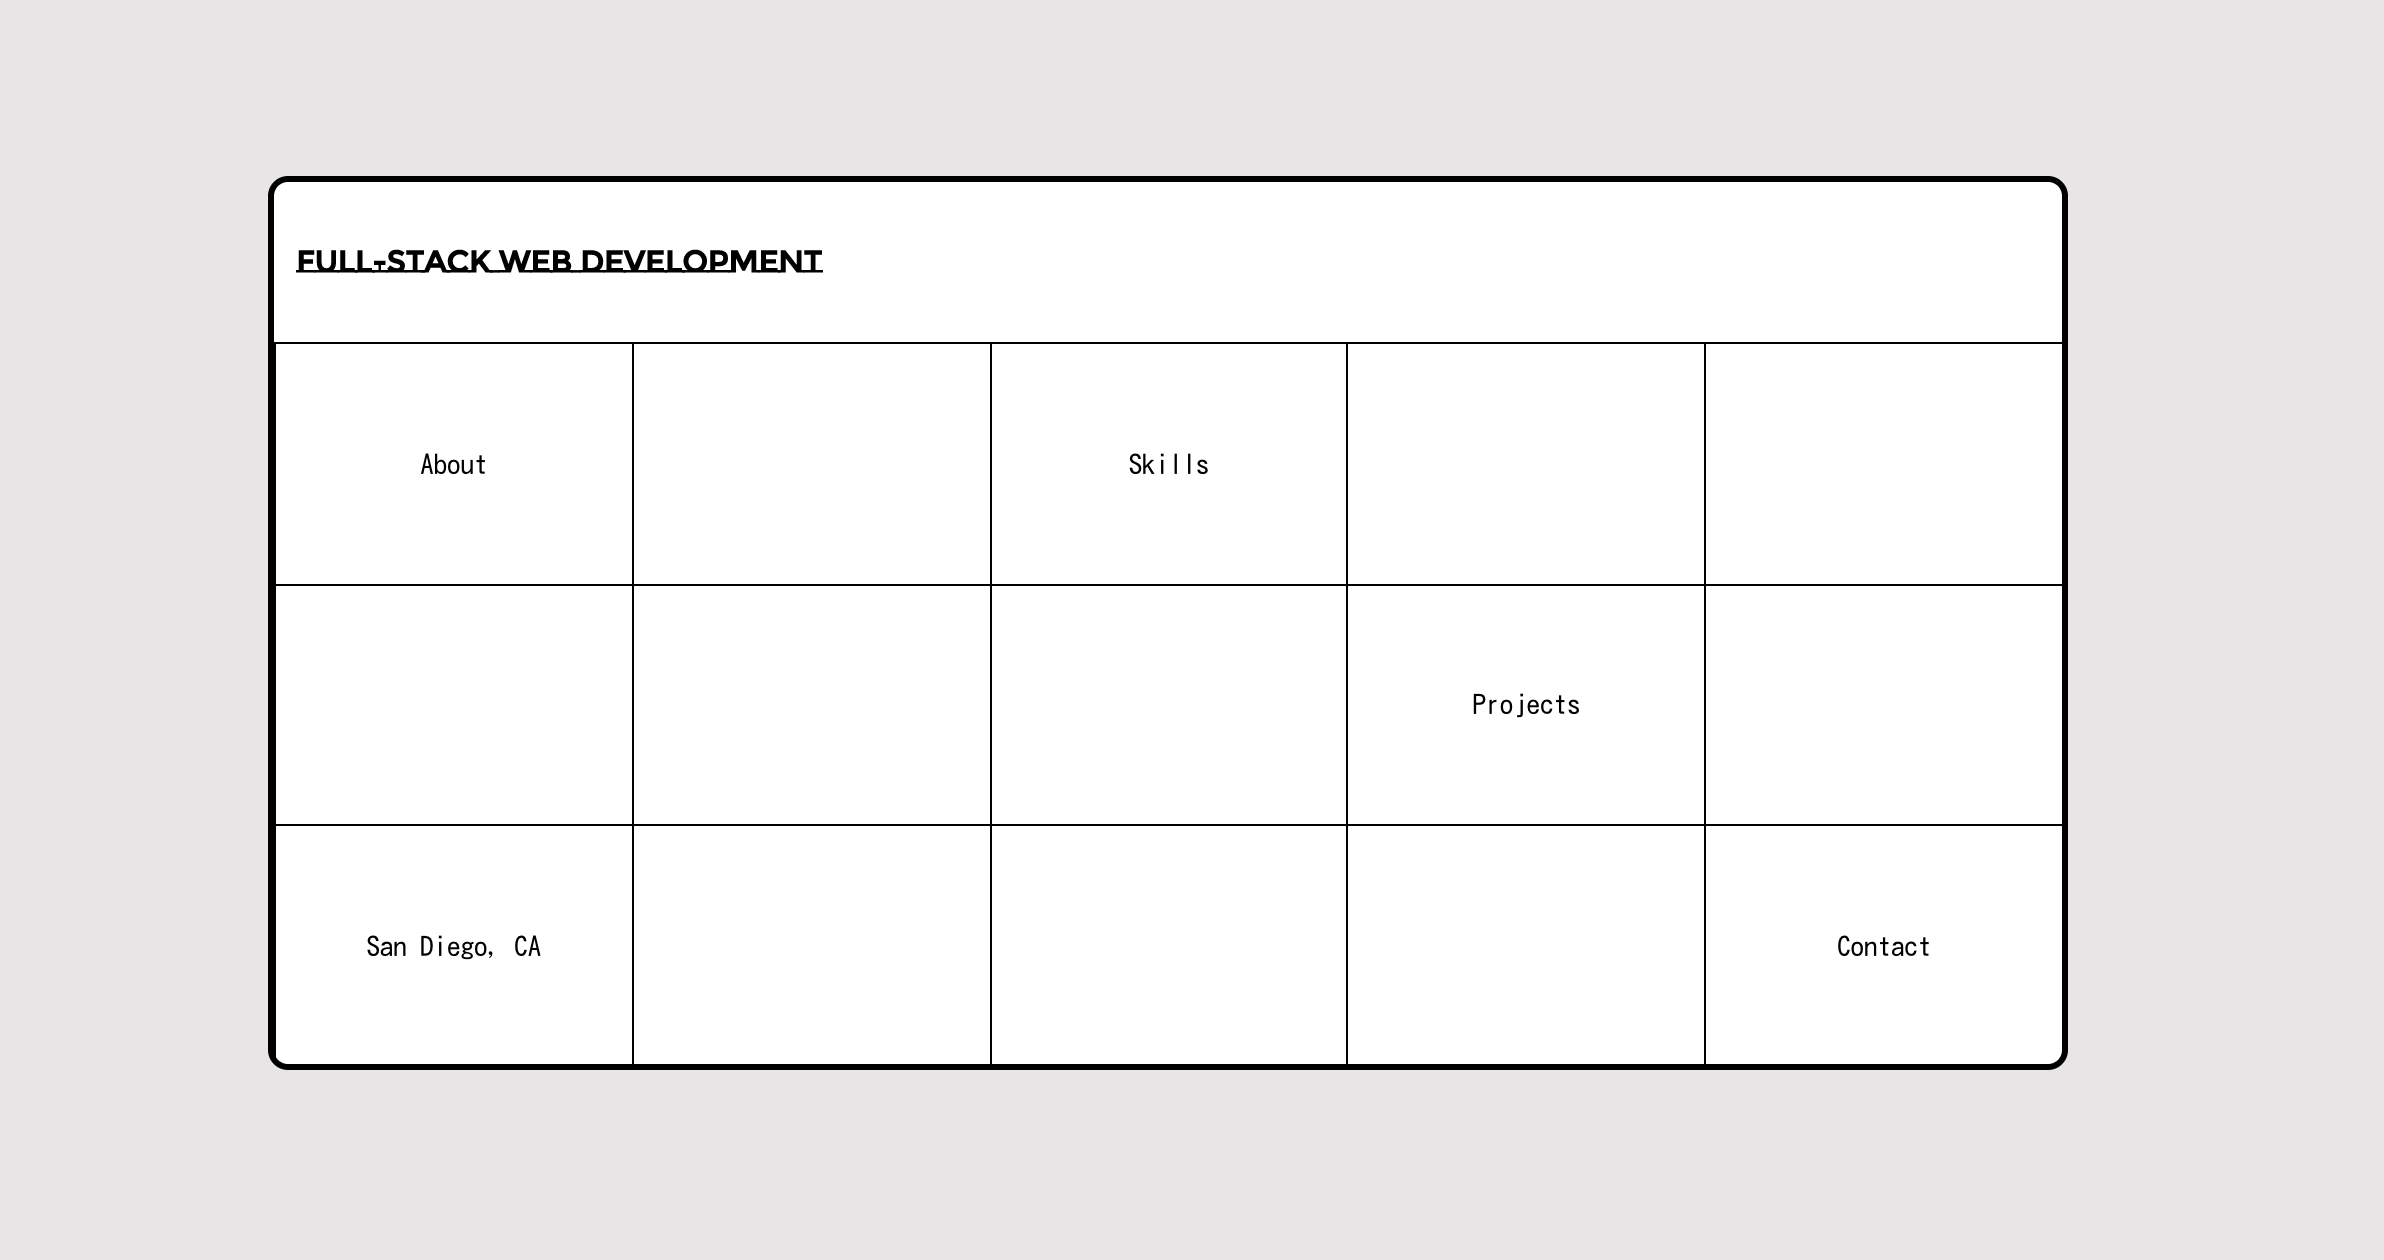
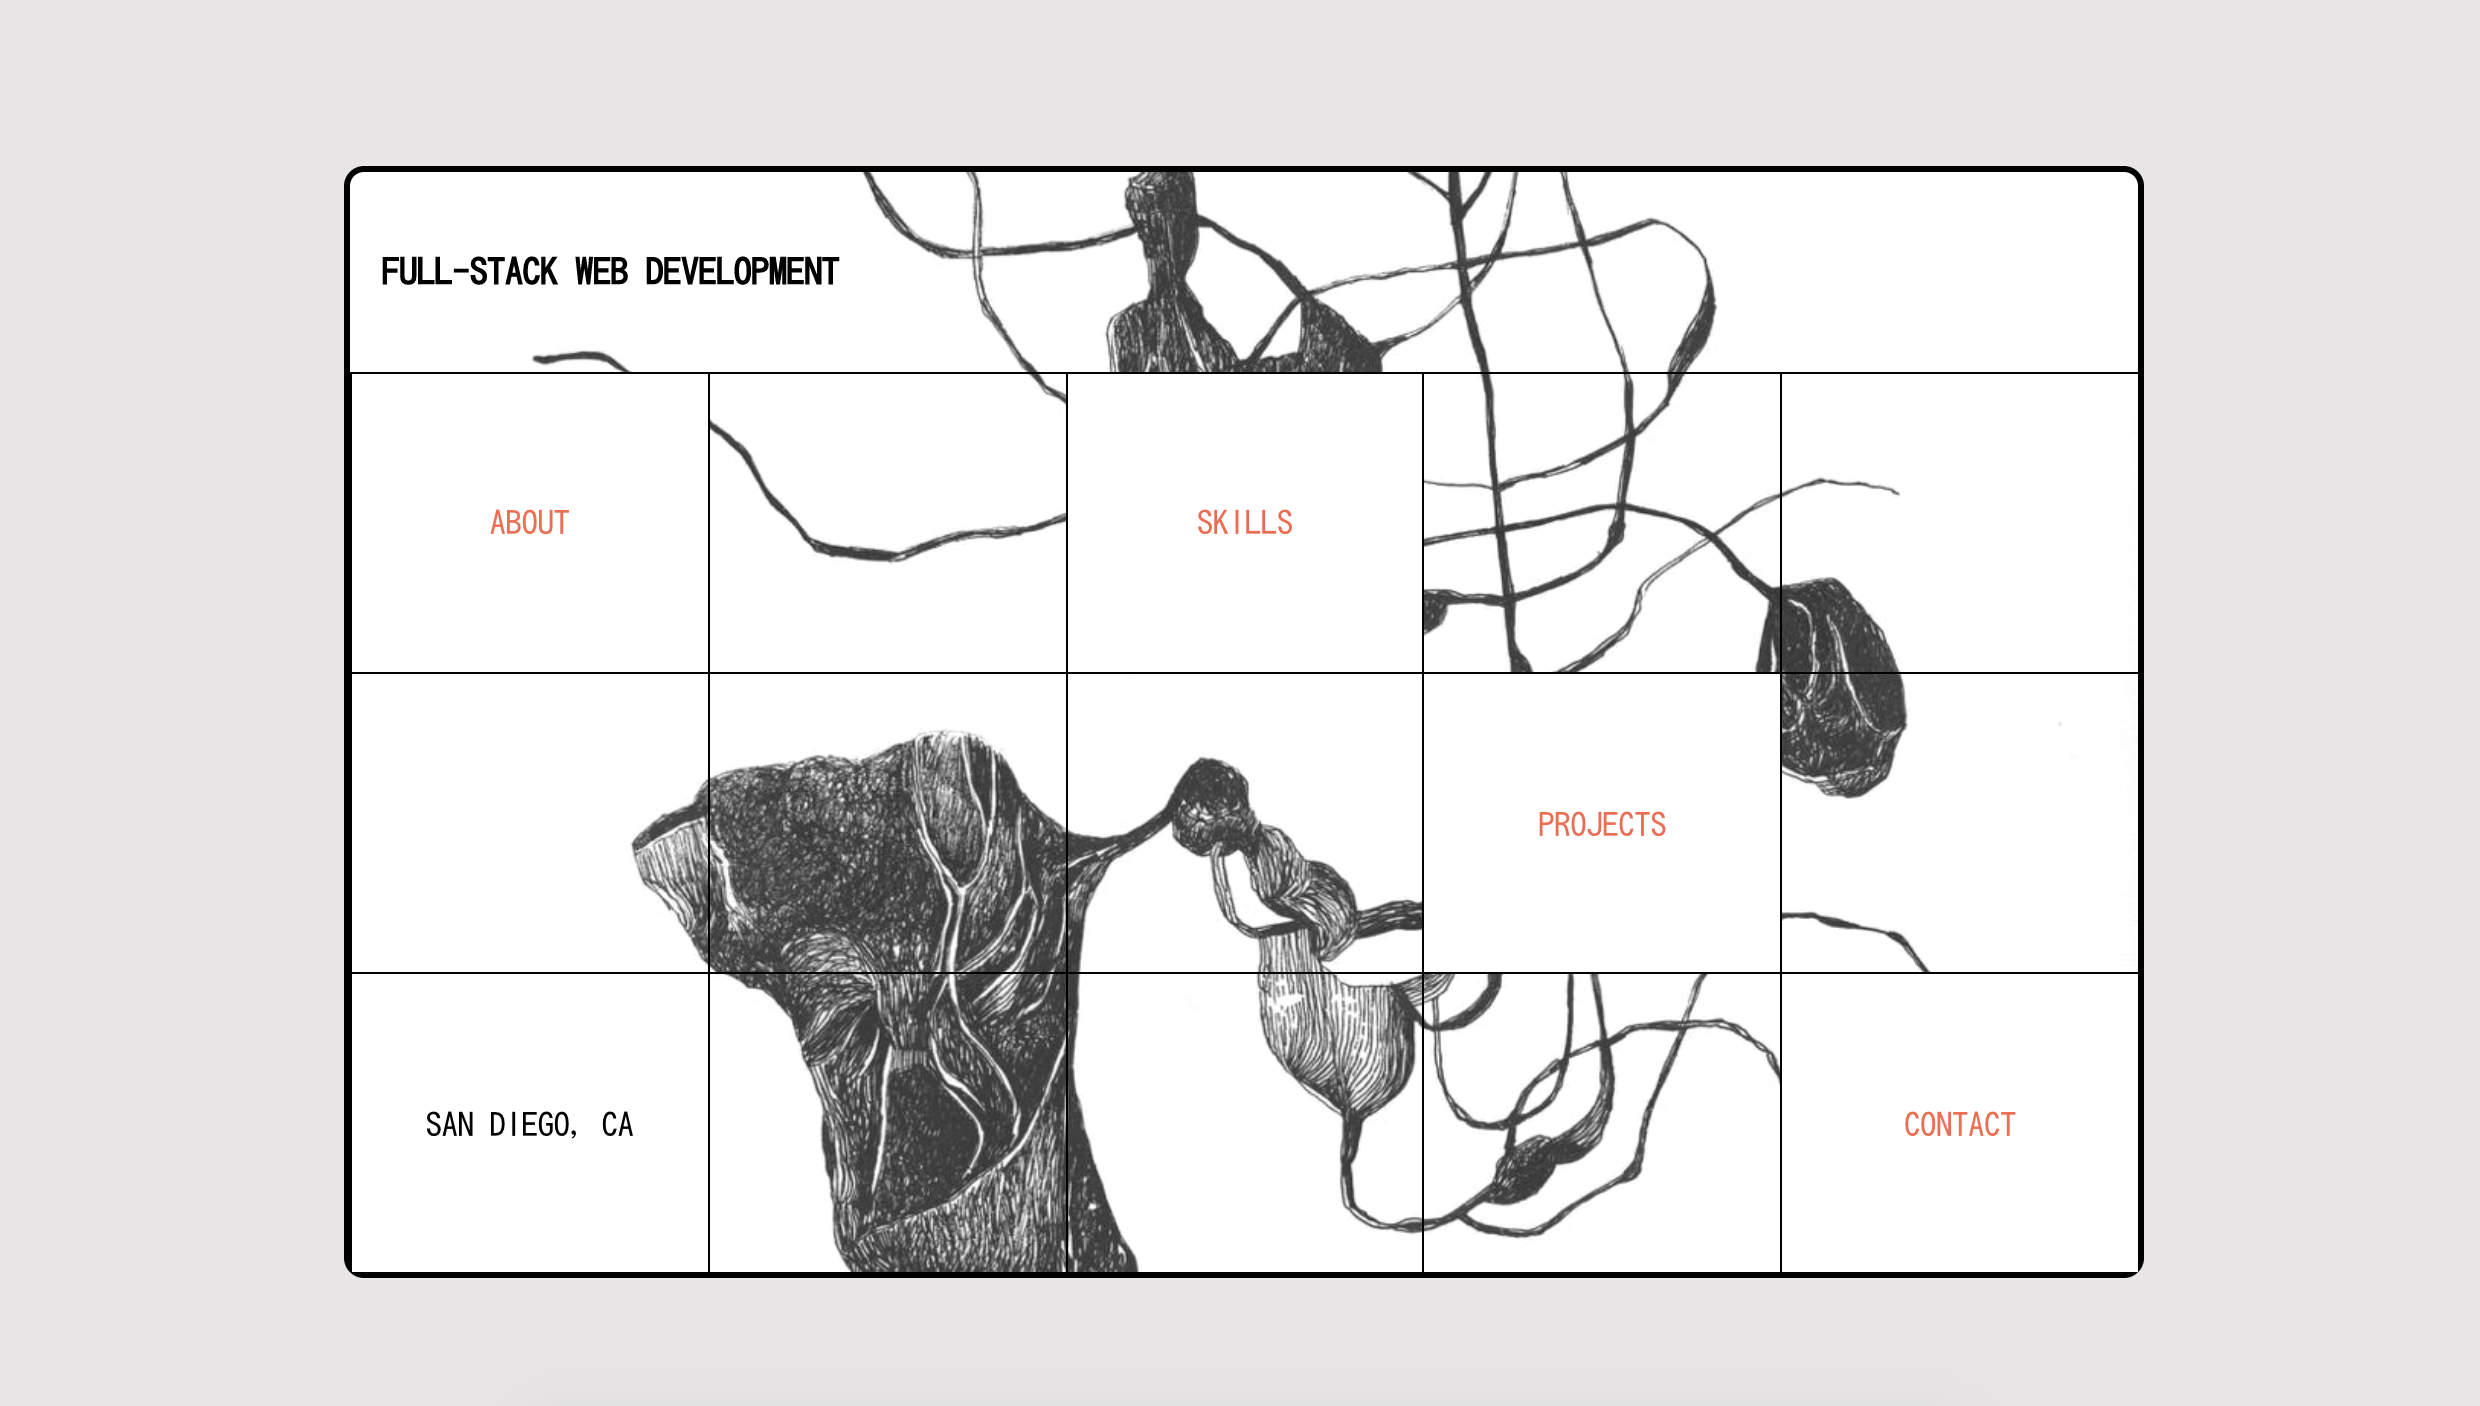
change styles

diff --git a/src/components/styled/Home.js b/src/components/styled/Home.js
@@ -5,11 +5,10 @@ export const PageTitle = styled.h2`
   grid-row: 1/2;
   display: flex;
   align-self: center;
-  padding: 0.1rem 0.7rem;
-  font-size: 0.8rem;
-  font-family: 'Montserrat Subrayada', sans-serif;
+  padding: 0.1rem 1rem;
+  text-transform: uppercase;
   @media (min-width: 769px) {
-    font-size: 0.95rem;
+    font-size: 1.1rem;
   }
 `;
 
@@ -17,13 +16,17 @@ export const Box = styled.div`
   display: flex;
   justify-content: center;
   align-items: center;
-  font-size: 1rem;
+  font-size: 0.9rem;
   text-transform: uppercase;
   border-top: 1px solid black;
   border-left: 1px solid black;
   padding: 7px;
+  @media (min-width: 769px) {
+    font-size: 1rem;
+  }
 
   &.withContent {
+    ${'' /* background-color: rgba(255, 255, 255, 0.9); */}
     background-color: white;
   }
 
@@ -34,13 +37,5 @@ export const Box = styled.div`
       grid-row: 4;
       grid-column: 1;
     }
-  }
-
-  ${
-    '' /* &#year {
-    grid-row: -1;
-    grid-column: -1;
-    font-size: 2rem;
-  } */
   }
 `;

diff --git a/src/components/App.js b/src/components/App.js
@@ -3,7 +3,6 @@ import { BrowserRouter as Router, Switch, Route } from 'react-router-dom';
 import { TransitionGroup, CSSTransition } from 'react-transition-group';
 import { HomeLayout, PatternedLayout, PlainLayout } from './Layouts';
 import Home from './Home';
-import Hello from './Hello';
 import About from './About';
 import Contact from './Contact';
 import Projects from './Projects';
@@ -62,13 +61,6 @@ function App() {
                   exact
                   path='/'
                   component={Home}
-                  layout={HomeLayout}
-                />
-
-                <RouteWrapper
-                  exact
-                  path='/hello'
-                  component={Hello}
                   layout={HomeLayout}
                 />
                 <Route exact path='/' component={Home} />

diff --git a/src/data.js b/src/data.js
@@ -52,7 +52,7 @@ const homePageLinks = [
   { title: null, link: null },
   { title: null, link: null },
   { title: null, link: null },
-  { title: 'hello', link: '/hello', id: 'hello' },
+  { title: null, link: null },
   { title: null, link: null },
   { title: 'Projects', link: '/projects', id: 'projects' },
   { title: null, link: null },

diff --git a/src/components/styled/MainWrapper.js b/src/components/styled/MainWrapper.js
@@ -21,8 +21,11 @@ export const MainWrapper = styled.div`
     `}
 
   > a:hover {
-    background-color: rgb(231, 231, 231);
+    background-color: white;
+    color: black;
+    transition: ease-in 300ms;
   }
+
   @media (min-width: 375px) {
     width: 75%;
     grid-auto-rows: 90px;

diff --git a/src/components/styled/About.js b/src/components/styled/About.js
@@ -7,7 +7,7 @@ export const MainContent = styled.div`
   color: rgb(48, 47, 47);
   background-color: white;
   @media (min-width: 769px) {
-    font-size: 0.95rem;
+    font-size: 0.85rem;
     padding: 1rem 2rem 0.5rem;
   }
   ul > li {
